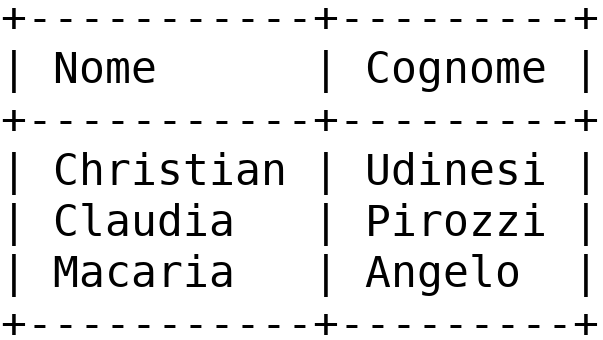
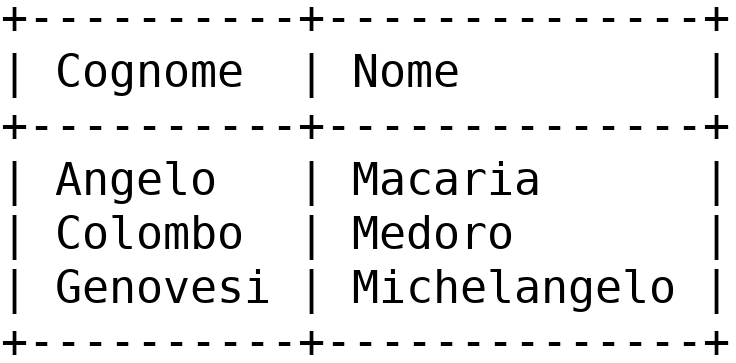
Fixes

diff --git a/src/queryIndici/query.tex b/src/queryIndici/query.tex
@@ -78,16 +78,16 @@
 		      \hline
 			  \vspace{.01mm}
 		      SELECT
-		      DISTINCT D1.Nome,
-		      D1.Cognome
+		      DISTINCT D1.Cognome,
+		      D1.Nome
 		      FROM
 		      Dipendenti as D1,
 		      Dipendenti as D2
 		      WHERE
 		      D2.Referente = D1.CodiceFiscale
 		      ORDER BY
-		      D1.Nome,
-		      D1.Cognome;
+		      D1.Cognome,
+		      D1.Nome;
 			   &
 			   \hspace{1.8cm}
 			   \raisebox{-\totalheight}{\includegraphics[width=0.3\textwidth]{src/queryIndici/assets/Query4Limited.png}}
